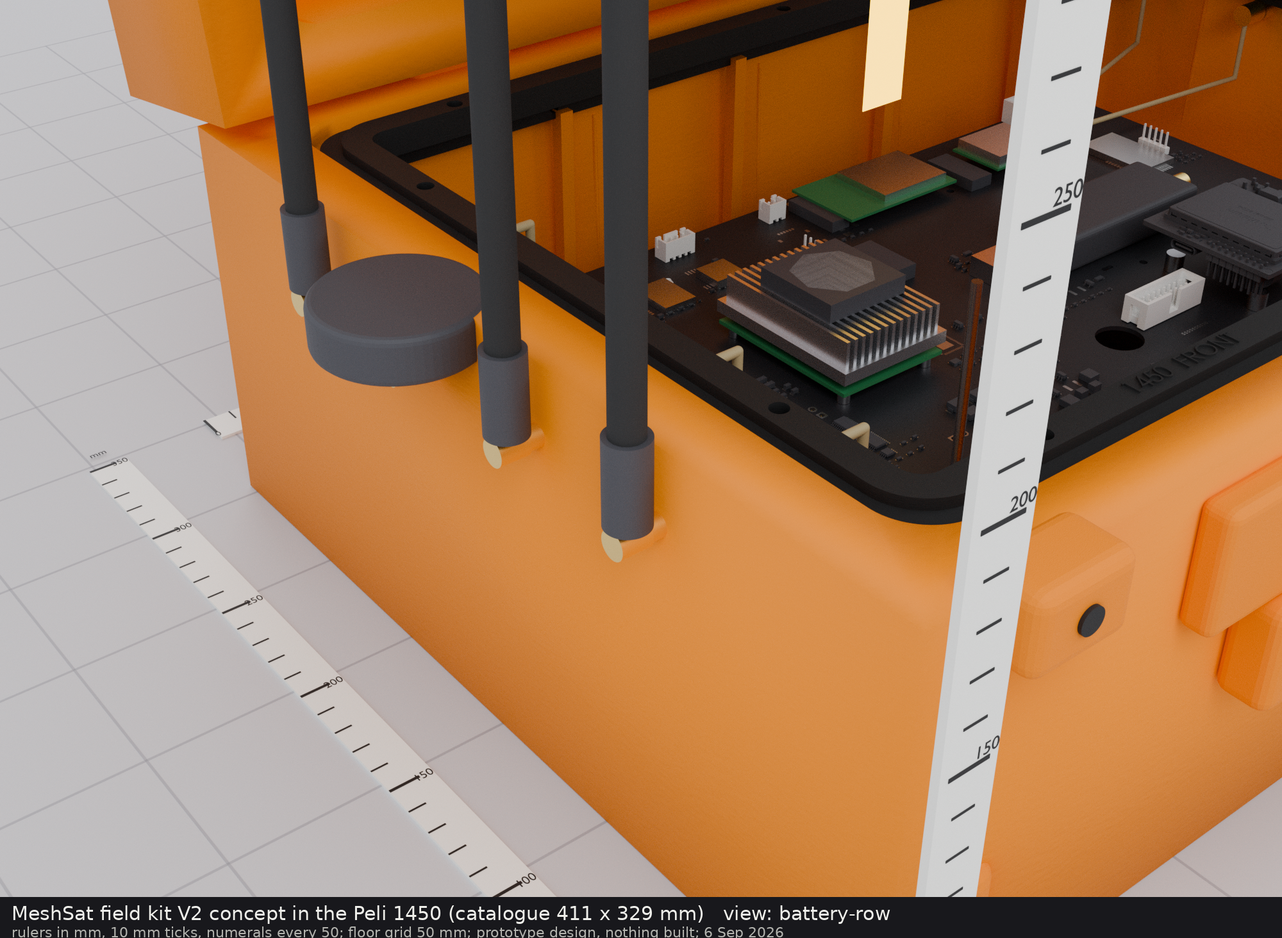
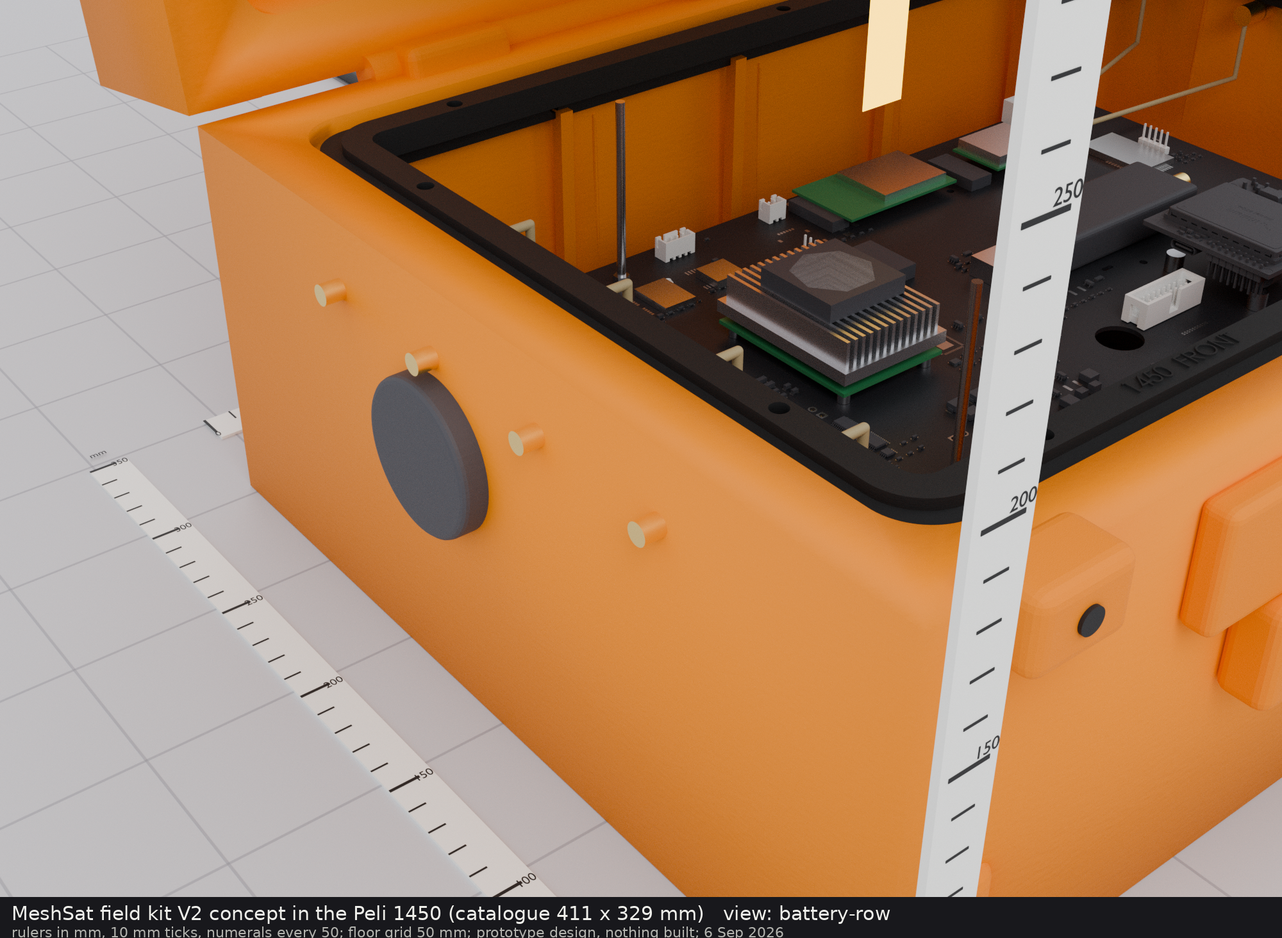
docs(images): the second Peli 1450 concept set, 39 ruler views of which 27 inside; the first set withdrawn [MESHSAT-505]

diff --git a/v2/images/concept-1450/README.md b/v2/images/concept-1450/README.md
@@ -1,44 +1,135 @@
-# Concept renders, the kit in the Peli 1450 (rendered 6 September 2026)
+# Concept renders, the kit in the Peli 1450 (rendered 6 September 2026, second set)
 
-Concept illustrations of the V2 kit as designed on 5 September 2026 (design record 32.40 to 32.42): the Peli 1450 with the 1450PF frame, the 3 mm aluminium face plate with the backer board C6 under it, the stack (E4, E5, A21, D7, B15), the battery row along the west end wall, the nine end-wall antennas and the upright connector plate with both cables plugged. Rendered on 6 September 2026 by `v2/cad/render/scene.py` (Blender 4.2, Cycles on eight H100 GPUs of a rented vast.ai box, 256 samples) from the KiCad boards, Peli's 1451-931 CAD and the makers' models; see `v2/cad/render/README.md` for what is real geometry and what is a stand-in. **Nothing in these images has been built.**
+Concept illustrations of the V2 kit as designed on 5 and 6 September 2026 (design record 32.40 to 32.44): the Peli 1450 with the 1450PF frame, the 3 mm aluminium face plate with the four-layer backer board C6 under it, the stack (E4, E5, A21, D7, B15), the battery row along the west end wall, the nine end-wall antenna sockets and the upright connector plate with both cables plugged. Rendered by `v2/cad/render/scene.py` (Blender 4.2, Cycles, 256 samples, eight H100 GPUs of a rented vast.ai box) from the KiCad boards, Peli's 1451-931 CAD and the makers' models; see `v2/cad/render/README.md` for what is real geometry and what is a stand-in. **Nothing in these images has been built.**
 
-Every image carries rulers (white bars, 10 mm ticks, numerals every 50 mm) along the case's edges on the ground and standing at the front corners, a 50 mm floor grid, and a title strip with the view name. Case frame: X along the case, +Y toward the hinge wall, Z from the cavity floor (the ground plane lies under Peli's 25 mm floor-and-feet slab).
+Every image carries rulers (white bars, 10 mm ticks, numerals every 50 mm) along the case's edges on the ground and standing at the front corners, a 50 mm floor grid, and a title strip with the view name. Case frame: X along the case, +Y toward the hinge wall, Z from the cavity floor. The nine antenna sockets are drawn as the bulkhead jacks in the end walls; only the two antenna forms the record names are shown (the Iridium patch and the GNSS puck), the others are not chosen yet.
 
-## Orbit, lid open (eight azimuths by three elevations)
+## The inside (27 views)
 
-Azimuth 0 looks at the front wall (handle and latches), 90 at the east end (LTE, Iridium, LoRa, WiFi P2P), 180 at the back wall (hinge, connector plate), 270 at the west end (UHF, WiFi 2.4, GNSS, SDR); elevations 20, 40 and 60 degrees.
+**stack-no-face-top**: the stack from above with the face plate and backer removed: B15 with the CM5 and its cooler, the LTE card, the M.2 WiFi card, the pigtails to the end walls, the battery row on the west
 
-| | el 20 | el 40 | el 60 |
-|---|---|---|---|
-| az 0 | ![](meshsat-1450-az000-el20-open.png) | ![](meshsat-1450-az000-el40-open.png) | ![](meshsat-1450-az000-el60-open.png) |
-| az 45 | ![](meshsat-1450-az045-el20-open.png) | ![](meshsat-1450-az045-el40-open.png) | ![](meshsat-1450-az045-el60-open.png) |
-| az 90 | ![](meshsat-1450-az090-el20-open.png) | ![](meshsat-1450-az090-el40-open.png) | ![](meshsat-1450-az090-el60-open.png) |
-| az 135 | ![](meshsat-1450-az135-el20-open.png) | ![](meshsat-1450-az135-el40-open.png) | ![](meshsat-1450-az135-el60-open.png) |
-| az 180 | ![](meshsat-1450-az180-el20-open.png) | ![](meshsat-1450-az180-el40-open.png) | ![](meshsat-1450-az180-el60-open.png) |
-| az 225 | ![](meshsat-1450-az225-el20-open.png) | ![](meshsat-1450-az225-el40-open.png) | ![](meshsat-1450-az225-el60-open.png) |
-| az 270 | ![](meshsat-1450-az270-el20-open.png) | ![](meshsat-1450-az270-el40-open.png) | ![](meshsat-1450-az270-el60-open.png) |
-| az 315 | ![](meshsat-1450-az315-el20-open.png) | ![](meshsat-1450-az315-el40-open.png) | ![](meshsat-1450-az315-el60-open.png) |
+![stack-no-face-top](meshsat-1450-stack-no-face-top.png)
 
-## Lid closed, low views
+**stack-no-face**: the stack without the face, three-quarter view
+
+![stack-no-face](meshsat-1450-stack-no-face.png)
+
+**stack-no-face-east**: the same from the east end
+
+![stack-no-face-east](meshsat-1450-stack-no-face-east.png)
+
+**stack-no-face-back**: the same from the hinge side
+
+![stack-no-face-back](meshsat-1450-stack-no-face-back.png)
+
+**level-b15**: B15 on top of the stack
+
+![level-b15](meshsat-1450-level-b15.png)
+
+**level-d7**: B15 removed: D7 (the DMR858M carrier) on A21
+
+![level-d7](meshsat-1450-level-d7.png)
+
+**level-a21**: D7 removed: A21 alone with its SMA nests and the wall pigtails
+
+![level-a21](meshsat-1450-level-a21.png)
+
+**level-a21-top**: A21 from above
+
+![level-a21-top](meshsat-1450-level-a21-top.png)
+
+**level-dock**: A21 removed: the dock strip E4 and the block E5 on the floor, the battery row
+
+![level-dock](meshsat-1450-level-dock.png)
+
+**level-dock-top**: the dock level from above
+
+![level-dock-top](meshsat-1450-level-dock-top.png)
+
+**face-underside**: the face plate and the backer C6 lifted 150 mm on their ribbon and flex, from the front
+
+![face-underside](meshsat-1450-face-underside.png)
+
+**face-underside-top**: the lifted face from above, the plate's top side with the LEDs and the e-paper
+
+![face-underside-top](meshsat-1450-face-underside-top.png)
+
+**top-face**: the face plate from straight above, lid open
+
+![top-face](meshsat-1450-top-face.png)
+
+**face-detail-left**: the toggles, the light switch and the sounder
+
+![face-detail-left](meshsat-1450-face-detail-left.png)
+
+**face-detail-right**: the buttons, the status LED column
+
+![face-detail-right](meshsat-1450-face-detail-right.png)
+
+**battery-row**: the battery module along the west end wall with the face lifted
+
+![battery-row](meshsat-1450-battery-row.png)
+
+**battery-row-inside**: the battery row from inside the cavity
+
+![battery-row-inside](meshsat-1450-battery-row-inside.png)
+
+**dock-joint**: the blind-mate joint on the dock block, A21 removed
+
+![dock-joint](meshsat-1450-dock-joint.png)
+
+**dock-joint-a21**: the same with A21 in place
+
+![dock-joint-a21](meshsat-1450-dock-joint-a21.png)
+
+**west-wall-inside**: the west end wall from inside: UHF, WiFi 2.4, GNSS and SDR couplers and their pigtails
+
+![west-wall-inside](meshsat-1450-west-wall-inside.png)
+
+**east-wall-inside**: the east end wall from inside: LTE, Iridium, LoRa and the two WiFi P2P couplers
+
+![east-wall-inside](meshsat-1450-east-wall-inside.png)
+
+**cutaway**: front wall removed, the face lifted 60 mm: the stack and the battery row
+
+![cutaway](meshsat-1450-cutaway.png)
+
+**cutaway-east**: the same cutaway from the east
+
+![cutaway-east](meshsat-1450-cutaway-east.png)
+
+**connector-plate**: the upright connector plate on the back wall from outside, both cables plugged
+
+![connector-plate](meshsat-1450-connector-plate.png)
+
+**west-wall**: the west end wall from outside, lid closed
+
+![west-wall](meshsat-1450-west-wall.png)
+
+**east-wall**: the east end wall from outside, lid closed
+
+![east-wall](meshsat-1450-east-wall.png)
+
+**back-wall**: the back wall, hinge side, lid closed
+
+![back-wall](meshsat-1450-back-wall.png)
+
+## The case, lid open (eight azimuths at 40 degrees elevation)
+
+Azimuth 0 looks at the front wall (handle and latches), 90 at the east end, 180 at the back wall (hinge, connector plate), 270 at the west end.
 
 | az 0 | az 45 | az 90 | az 135 |
 |---|---|---|---|
-| ![](meshsat-1450-az000-el20-closed.png) | ![](meshsat-1450-az045-el20-closed.png) | ![](meshsat-1450-az090-el20-closed.png) | ![](meshsat-1450-az135-el20-closed.png) |
+| ![az000-el40-open](meshsat-1450-az000-el40-open.png) | ![az045-el40-open](meshsat-1450-az045-el40-open.png) | ![az090-el40-open](meshsat-1450-az090-el40-open.png) | ![az135-el40-open](meshsat-1450-az135-el40-open.png) |
+
 | az 180 | az 225 | az 270 | az 315 |
-| ![](meshsat-1450-az180-el20-closed.png) | ![](meshsat-1450-az225-el20-closed.png) | ![](meshsat-1450-az270-el20-closed.png) | ![](meshsat-1450-az315-el20-closed.png) |
+|---|---|---|---|
+| ![az180-el40-open](meshsat-1450-az180-el40-open.png) | ![az225-el40-open](meshsat-1450-az225-el40-open.png) | ![az270-el40-open](meshsat-1450-az270-el40-open.png) | ![az315-el40-open](meshsat-1450-az315-el40-open.png) |
 
-## Details
+## The case, lid closed (four azimuths)
 
-| View | What it shows |
-|---|---|
-| ![](meshsat-1450-top-face.png) | the face from above: the display aperture, the e-paper lens with the meshsat.net QR, the buttons, the toggles, the light switch, the sounder, the status column, the battery bar, the nameplate and the logo |
-| ![](meshsat-1450-face-detail-left.png) | the left strip: SOS, EMCON and ZEROIZE locking toggles, the light switch, the sounder, the logo |
-| ![](meshsat-1450-face-detail-right.png) | the right strip: MAIN, PI and TEST buttons with their lit rings, the eleven status LEDs |
-| ![](meshsat-1450-west-wall.png) | the west end wall: UHF, WiFi 2.4, GNSS puck and SDR bulkheads at 88 mm |
-| ![](meshsat-1450-east-wall.png) | the east end wall: LTE, the Iridium patch, LoRa and the two WiFi P2P bulkheads |
-| ![](meshsat-1450-back-wall.png) | the back wall: the upright connector plate between the ribs with the shore and USB cables plugged, the hinge |
-| ![](meshsat-1450-front-wall.png) | the front wall: the handle, the latches, the pressure valve |
-| ![](meshsat-1450-cutaway.png) | the front wall cut away and the face lifted: the dock strip and block, PCB-A with the APRS mezzanine, the Compute Module carrier, the battery row, the pigtails |
-| ![](meshsat-1450-battery-row.png) | the battery row along the west wall under the SMA row, the face lifted clear |
-| ![](meshsat-1450-face-underside.png) | the face lifted 150 mm: the backer board C6 on its standoffs under the plate, the switch bodies through its slots |
-| ![](meshsat-1450-stack-no-face.png) | the stack in the case without the face |
+| az 0 | az 90 | az 180 | az 270 |
+|---|---|---|---|
+| ![az000-el20-closed](meshsat-1450-az000-el20-closed.png) | ![az090-el20-closed](meshsat-1450-az090-el20-closed.png) | ![az180-el20-closed](meshsat-1450-az180-el20-closed.png) | ![az270-el20-closed](meshsat-1450-az270-el20-closed.png) |
+
+The first set of 6 September (43 views, mostly outside orbits, with the closed lid drawn 25 mm too low so the sockets read as lid-mounted) was withdrawn the same day.
